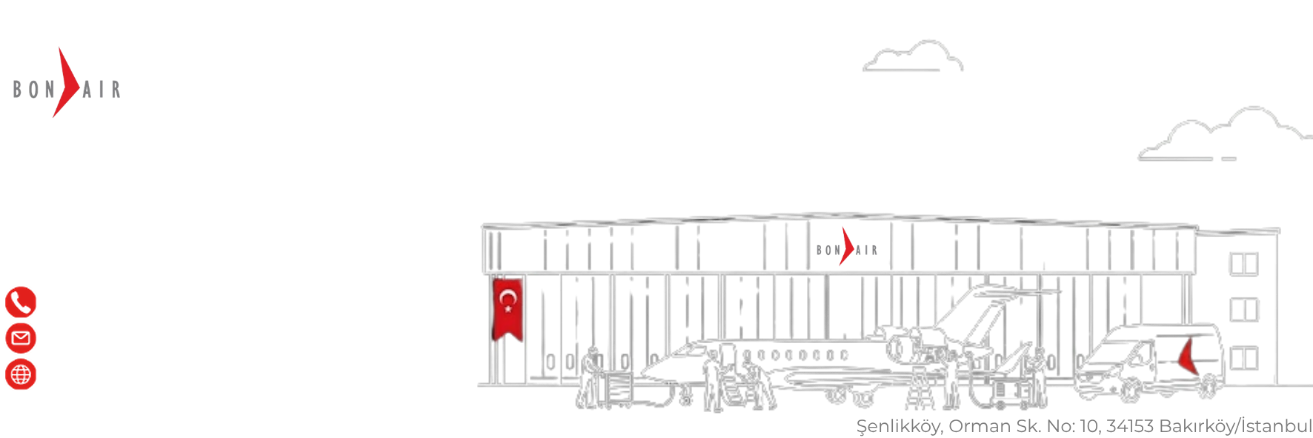
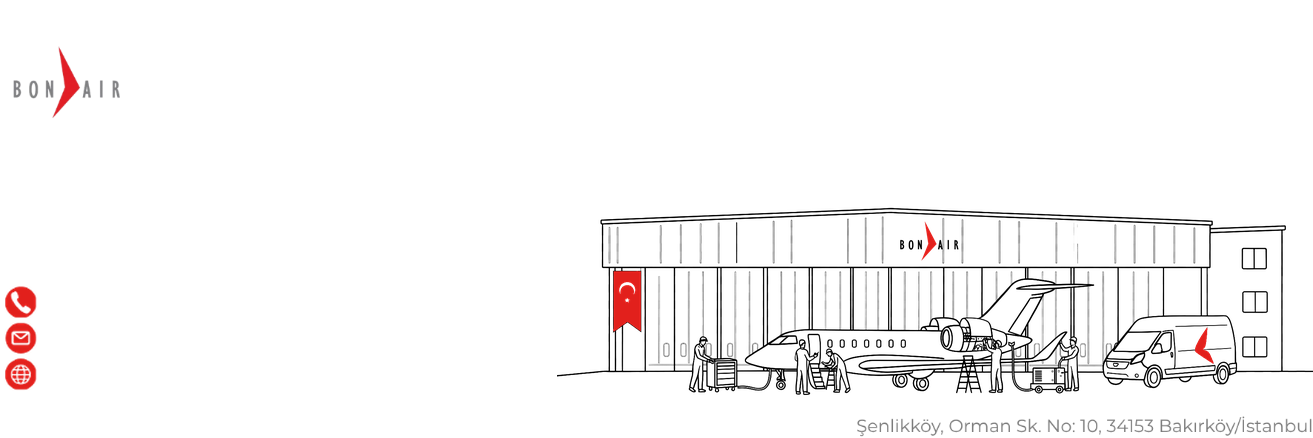
Hangar gorseli yenilendi: yuksek cozunurluk + siyah cizgi + cati logosu
- Yeni hangar kaynagi 2000x615 (eski 838x370); JPEG damali deseni temizlenip
  seffaf PNG'ye cevrildi, cizgiler siyah, bayrak ve minibus oku kirmizi
- Catiya BONAIR logosu eklendi (siyah harf + kirmizi ok)
- Sablonda eski hangar/bulutlar silindi, yenisi saga yaslandi (756x232)
- Isim maks genisligi 520px (hangara girmesin)

Claude-Session: https://claude.ai/code/session_016U9xWWhHp4qEDJEv488EKR

diff --git a/index.html b/index.html
@@ -238,7 +238,7 @@
   // ---- Sablon uzerine cizim ayarlari (orijinal gorselden kalibre edildi) ----
   // [alanAdi]: x, taban(y), boyut(px), harfAraligi(px), font, maksGenislik
   var DRAW = {
-    name:  { x: 4,  by: 207, size: 60.0, ls: 0, font: "'MontB'", max: 550 },
+    name:  { x: 4,  by: 207, size: 60.0, ls: 0, font: "'MontB'", max: 520 },
     title: { x: 5,  by: 240, size: 20.8, ls: 0, font: "'MontR'", max: 460 },
     // Iletisim satirlari: ust=telefon, orta=e-posta, alt=web. Ucu de ayni x'ten
     // baslar (ikon mürekkebi x=30'da biter, metin x=39'dan baslar).
